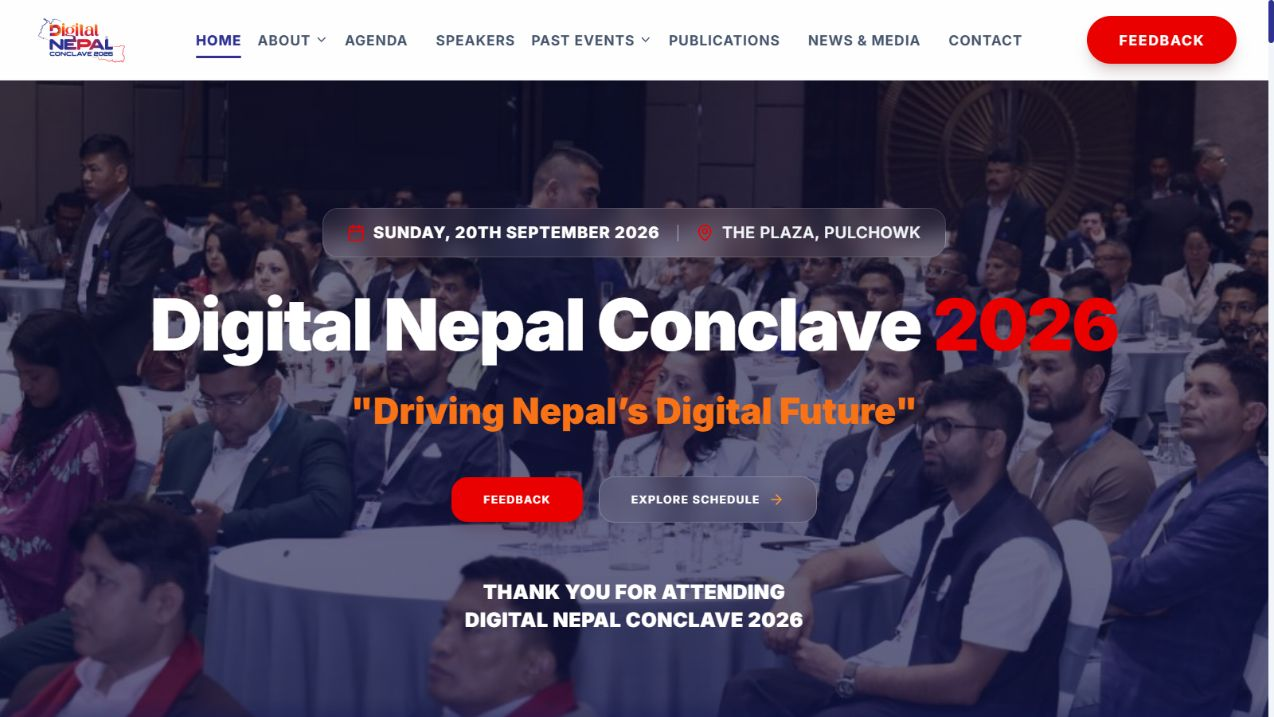
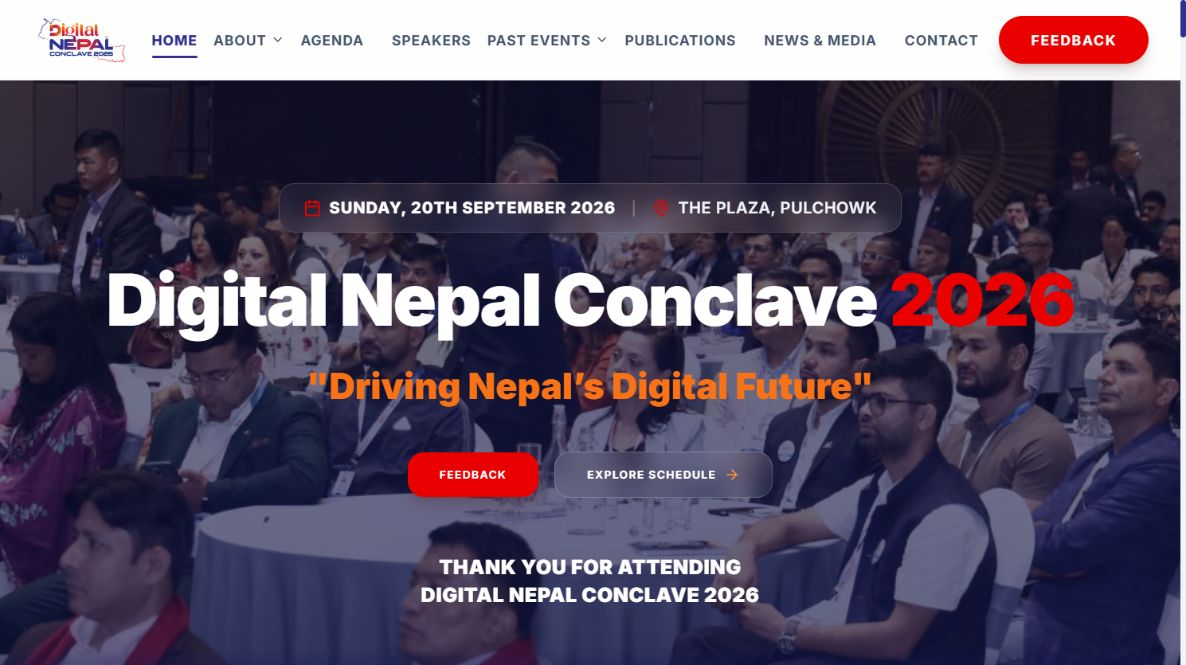
Update client portfolio copy, startup domain, and website screenshots

diff --git a/client-works.html b/client-works.html
@@ -1,7 +1,7 @@
 <!doctype html>
 <html lang="en"><head><meta charset="utf-8"><meta name="viewport" content="width=device-width,initial-scale=1"><title>Kabir Rajbanshi | Portfolio Website</title><meta name="description" content="Explore websites and visual design by Kabir Rajbanshi."><link rel="preconnect" href="https://fonts.googleapis.com"><link href="https://fonts.googleapis.com/css2?family=Work+Sans:wght@300;400;500;600;700&display=swap" rel="stylesheet"><link rel="stylesheet" href="site.css?v=svg-icons-1"><link rel="icon" type="image/png" href="assets/kabir-logo.png"><link rel="apple-touch-icon" href="assets/kabir-logo.png"><meta name="theme-color" content="#9929fb"></head>
 <body class="collection client-collection"><nav><a href="index.html" class="collection-brand"><img class="brand-logo" src="assets/kabir-logo.png" alt="" width="44" height="44"><strong>Kabir Rajbanshi</strong></a><a href="index.html#portfolio"><svg class="icon" viewBox="0 0 24 24" fill="none" stroke="currentColor" stroke-width="1.8" stroke-linecap="round" stroke-linejoin="round" aria-hidden="true" focusable="false"><path d="M20 12H4m6-6-6 6 6 6"/></svg> Back to portfolio</a></nav>
-<main><div class="eyebrow">Selected work / Client Works</div><h1>Ideas made real<span class="client-dot">.</span></h1><p class="intro">Websites, images, and brand visuals. A space for the digital experiences and creative work I make for clients.</p>
+<main><div class="eyebrow">Selected work / Client Works</div><h1>Ideas made real<span class="client-dot">.</span></h1><p class="intro">Text website, images, and brand visuals. A space for digital experiences and creative work I and my team made for clients.</p>
 <section class="client-websites" aria-labelledby="websites-title">
 <div class="work-section-heading"><div>
 <div class="eyebrow">01 / Digital experiences</div>
@@ -10,20 +10,18 @@
 </div><div class="website-bento">
 <article class="website-card website-card-1">
 <a class="website-preview" href="https://digitalconclave.org/" target="_blank" rel="noopener noreferrer" aria-label="Visit Digital Nepal Conclave website">
-<img src="assets/client-works/digitalconclave.png" alt="Homepage preview of Digital Nepal Conclave" width="1280" height="720" loading="lazy"></a>
+<img src="assets/client-works/digitalconclave.png?v=2" alt="Homepage preview of Digital Nepal Conclave" width="1280" height="720" loading="lazy"></a>
 <div class="website-caption"><div><span>Event website</span>
 <h3>Digital Nepal Conclave</h3><p>digitalconclave.org</p></div>
 <a class="visit-site" href="https://digitalconclave.org/" target="_blank" rel="noopener noreferrer" aria-label="Visit Digital Nepal Conclave website">Visit website</a>
 </div></article><article class="website-card website-card-2"><a class="website-preview" href="https://ictfoundation.org.np/" target="_blank" rel="noopener noreferrer" aria-label="Visit ICT Foundation Nepal website">
-<img src="assets/client-works/ictfoundation.png" alt="Homepage preview of ICT Foundation Nepal" width="1280" height="720" loading="lazy"></a><div class="website-caption"><div><span>Organization website</span><h3>ICT Foundation Nepal</h3><p>ictfoundation.org.np</p></div>
+<img src="assets/client-works/ictfoundation.png?v=2" alt="Homepage preview of ICT Foundation Nepal" width="1280" height="720" loading="lazy"></a><div class="website-caption"><div><span>Organization website</span><h3>ICT Foundation Nepal</h3><p>ictfoundation.org.np</p></div>
 <a class="visit-site" href="https://ictfoundation.org.np/" target="_blank" rel="noopener noreferrer" aria-label="Visit ICT Foundation Nepal website">Visit website</a></div>
-</article><article class="website-card website-card-3"><a class="website-preview" href="https://nepalstartup.org/" target="_blank" rel="noopener noreferrer" aria-label="Visit Nepali Startup website"><div class="startup-wordmark" aria-hidden="true">
-<span>NEPALI</span><strong>Startup<span><svg class="icon" viewBox="0 0 24 24" fill="none" stroke="currentColor" stroke-width="1.8" stroke-linecap="round" stroke-linejoin="round" aria-hidden="true" focusable="false"><path d="M7 17 17 7M7 7h10v10"/></svg></span></strong>
-<small>nepalstartup.org</small></div></a>
+</article><article class="website-card website-card-3"><a class="website-preview" href="https://startupnepal.org/" target="_blank" rel="noopener noreferrer" aria-label="Visit Nepali Startup website"><img src="assets/client-works/startupnepal.png" alt="Homepage preview of Startup Nepal" width="1280" height="720" loading="lazy"></a>
 <div class="website-caption">
 <div><span>Website project</span>
-<h3>Nepali Startup</h3><p>nepalstartup.org</p>
-</div><a class="visit-site" href="https://nepalstartup.org/" target="_blank" rel="noopener noreferrer" aria-label="Visit Nepali Startup website">Visit website</a></div></article></div></section>
+<h3>Nepali Startup</h3><p>startupnepal.org</p>
+</div><a class="visit-site" href="https://startupnepal.org/" target="_blank" rel="noopener noreferrer" aria-label="Visit Nepali Startup website">Visit website</a></div></article></div></section>
 <section class="client-visuals" aria-labelledby="visuals-title">
     <div class="work-section-heading"><div>
         <div class="eyebrow">02 / Visual stories</div>
